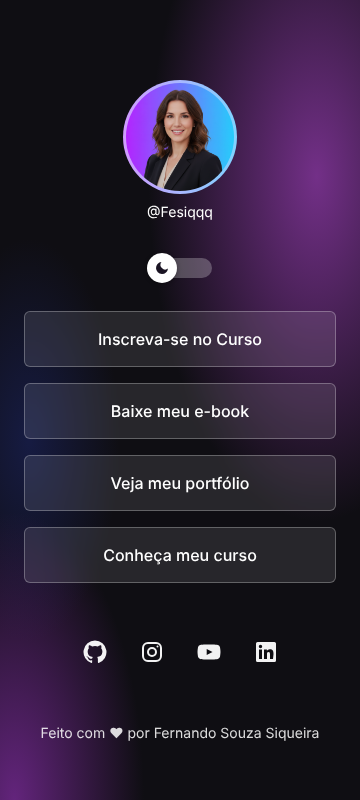
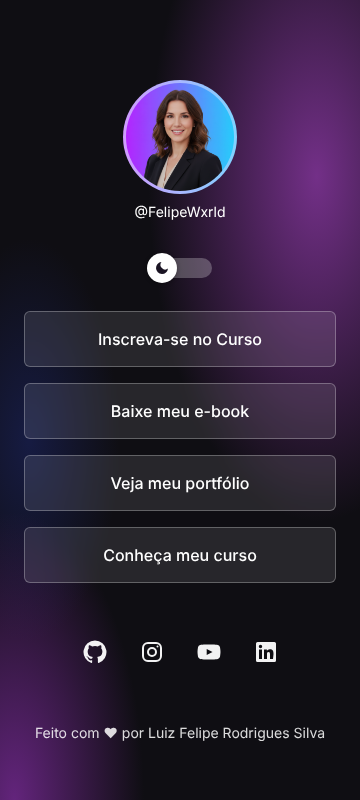
chore: personaliza perfil (Luiz Felipe Rodrigues Silva / @FelipeWxrld) e atualiza capturas
- src/data/profile.js: @usuário, nome do criador e links do GitHub
- README.md: nome e link do perfil
- docs/screenshots: capturas desktop/mobile (claro/escuro) e evidência do Playwright regeneradas (14 testes passando)

Claude-Session: https://claude.ai/code/session_011vp4ukWxC8YRLFZ4rXmY5M

Changed region(s): [[0.0917, 0.9062, 0.9167, 0.9375], [0.3667, 0.25, 0.6417, 0.2812]]

diff --git a/src/data/profile.js b/src/data/profile.js
@@ -2,20 +2,20 @@
 // Os textos dos botões seguem o Figma; as URLs são exemplos: troque pelas suas.
 
 export const profile = {
-  username: '@Fesiqqq',
-  name: 'Fernando Souza Siqueira',
+  username: '@FelipeWxrld',
+  name: 'Luiz Felipe Rodrigues Silva',
   avatar: '/avatar.png', // imagem em public/avatar.png (recorte quadrado)
 }
 
 export const links = [
   { id: 'curso-inscricao', label: 'Inscreva-se no Curso', url: 'https://example.com/inscricao' },
   { id: 'ebook', label: 'Baixe meu e-book', url: 'https://example.com/ebook' },
-  { id: 'portfolio', label: 'Veja meu portfólio', url: 'https://github.com/Fesiqqq' },
+  { id: 'portfolio', label: 'Veja meu portfólio', url: 'https://github.com/FelipeWxrld' },
   { id: 'curso-info', label: 'Conheça meu curso', url: 'https://example.com/curso' },
 ]
 
 export const socials = [
-  { id: 'github', label: 'GitHub', url: 'https://github.com/Fesiqqq' },
+  { id: 'github', label: 'GitHub', url: 'https://github.com/FelipeWxrld' },
   { id: 'instagram', label: 'Instagram', url: 'https://www.instagram.com/' },
   { id: 'youtube', label: 'YouTube', url: 'https://www.youtube.com/' },
   { id: 'linkedin', label: 'LinkedIn', url: 'https://www.linkedin.com/' },

diff --git a/README.md b/README.md
@@ -1,6 +1,6 @@
 # DevLinks
 
-Página de links pessoais de Fernando Souza Siqueira ([@Fesiqqq](https://github.com/Fesiqqq)), feita em **React + Vite**, baseada no layout "DevLinks • OpenCode MiniProject" do Figma. Tem modo claro e escuro, e a escolha fica salva no navegador.
+Página de links pessoais de Luiz Felipe Rodrigues Silva ([@FelipeWxrld](https://github.com/FelipeWxrld)), feita em **React + Vite**, baseada no layout "DevLinks • OpenCode MiniProject" do Figma. Tem modo claro e escuro, e a escolha fica salva no navegador.
 
 ![Desktop escuro](docs/screenshots/desktop-dark.png)
 ![Mobile claro](docs/screenshots/mobile-light.png)
